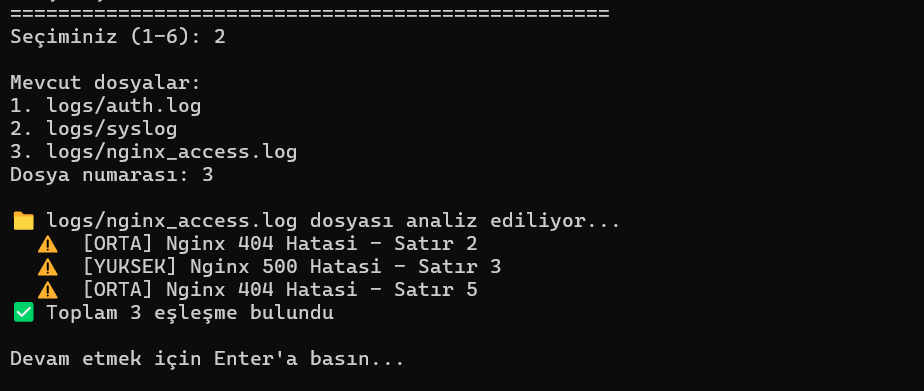
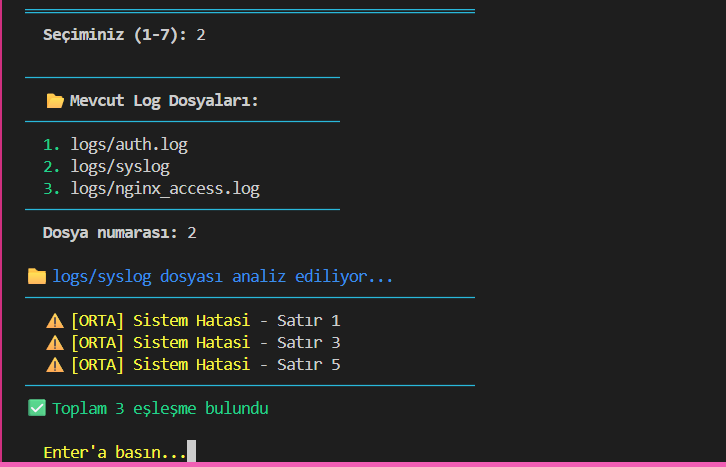
Updated app.py with colored menu system and refreshed screenshots

Changed region(s): [[0.0, 0.5217, 1.0, 1.0], [0.0, 0.1535, 0.4848, 0.5217], [0.0, 0.0, 0.6667, 0.1228]]

diff --git a/app.py b/app.py
@@ -3,6 +3,16 @@ import csv
 import yaml
 import time
 from datetime import datetime
+class Renkler:
+    KIRMIZI    = "\033[91m"
+    YESIL      = "\033[92m"
+    SARI       = "\033[93m"
+    MAVI       = "\033[94m"
+    MAGENTA    = "\033[95m"
+    SIYAN      = "\033[96m"
+    BEYAZ      = "\033[97m"
+    KALIN      = "\033[1m"
+    SIFIRLA    = "\033[0m"
 
 class LogAnalyzer:
     def __init__(self):
@@ -10,18 +20,17 @@ class LogAnalyzer:
         self.bulunan_olaylar = []
         
     def kurallari_yukle(self):
-        """YAML dosyasından kuralları yükle"""
         try:
             with open('rules.yaml', 'r', encoding='utf-8') as f:
                 veri = yaml.safe_load(f)
                 return veri['rules']
         except Exception as e:
-            print(f"Kural dosyası yüklenirken hata: {e}")
+            print(f"{Renkler.KIRMIZI}❌ Kural dosyası yüklenirken hata: {e}{Renkler.SIFIRLA}")
             return []
     
     def dosya_analiz_et(self, dosya_yolu):
-        """Belirtilen log dosyasını analiz et"""
-        print(f"\n📁 {dosya_yolu} dosyası analiz ediliyor...")
+        print(f"\n{Renkler.MAVI}📁 {dosya_yolu} dosyası analiz ediliyor...{Renkler.SIFIRLA}")
+        print(f"{Renkler.SIYAN}{'─' * 50}{Renkler.SIFIRLA}")
         
         try:
             with open(dosya_yolu, 'r', encoding='utf-8') as f:
@@ -34,8 +43,7 @@ class LogAnalyzer:
                     for kelime in kural['keywords']:
                         if kelime in satir:
                             toplam_eslesme += 1
-                    
-                            mesaj_kisa = satir.strip()[:150] + '...' if len(satir.strip()) > 150 else satir.strip()
+                            mesaj_kisa = satir.strip()[:100] + '...' if len(satir.strip()) > 100 else satir.strip()
                             
                             self.bulunan_olaylar.append({
                                 'zaman': datetime.now().strftime('%Y-%m-%d %H:%M:%S'),
@@ -45,55 +53,84 @@ class LogAnalyzer:
                                 'kural_adi': kural['name'],
                                 'mesaj': mesaj_kisa
                             })
-                            print(f"  ⚠  [{kural['severity']}] {kural['name']} - Satır {satir_no}")
+                            if kural['severity'] == 'YUKSEK':
+                                renk = Renkler.KIRMIZI
+                            elif kural['severity'] == 'ORTA':
+                                renk = Renkler.SARI
+                            else:
+                                renk = Renkler.YESIL
+                            
+                            print(f"  {renk}⚠  [{kural['severity']}] {kural['name']}{Renkler.SIFIRLA} - Satır {satir_no}")
                             break
             
-            print(f"✅ Toplam {toplam_eslesme} eşleşme bulundu\n")
+            print(f"{Renkler.SIYAN}{'─' * 50}{Renkler.SIFIRLA}")
+            print(f"{Renkler.YESIL}✅ Toplam {toplam_eslesme} eşleşme bulundu{Renkler.SIFIRLA}\n")
             
         except FileNotFoundError:
-            print(f"❌ Dosya bulunamadı: {dosya_yolu}\n")
+            print(f"{Renkler.KIRMIZI}❌ Dosya bulunamadı: {dosya_yolu}{Renkler.SIFIRLA}\n")
         except Exception as e:
-            print(f"❌ Hata oluştu: {e}\n")
+            print(f"{Renkler.KIRMIZI}❌ Hata oluştu: {e}{Renkler.SIFIRLA}\n")
     
     def gercek_zamanli_izle(self, dosya_yolu, sure=10):
-        """Log dosyasını gerçek zamanlı izle (tail -f benzeri)"""
-        print(f"\n🔴 Gerçek zamanlı izleme başlatıldı: {dosya_yolu}")
-        print(f"⏱  {sure} saniye boyunca izlenecek...\n")
+        print(f"\n{Renkler.KIRMIZI}🔴 Gerçek zamanlı izleme başlatıldı: {dosya_yolu}{Renkler.SIFIRLA}")
+        print(f"{Renkler.SARI}⏱  {sure} saniye boyunca izlenecek... (Ctrl+C ile durabilirsin){Renkler.SIFIRLA}\n")
         
         try:
             with open(dosya_yolu, 'r') as f:
-                f.seek(0, 2)  
+                f.seek(0, 2)
                 
                 baslangic = time.time()
+                beklemede = True
                 
                 while (time.time() - baslangic) < sure:
                     satir = f.readline()
                     
                     if satir:
+                        beklemede = False
                         for kural in self.kurallar:
                             for kelime in kural['keywords']:
                                 if kelime in satir:
-                                    print(f"🚨 [{kural['severity']}] {kural['name']}")
+                                    if kural['severity'] == 'YUKSEK':
+                                        renk = Renkler.KIRMIZI
+                                    elif kural['severity'] == 'ORTA':
+                                        renk = Renkler.SARI
+                                    else:
+                                        renk = Renkler.YESIL
+                                    
+                                    print(f"{renk}🚨 [{kural['severity']}] {kural['name']}{Renkler.SIFIRLA}")
                                     print(f"   {satir.strip()}\n")
+                                    
+                                    self.bulunan_olaylar.append({
+                                        'zaman': datetime.now().strftime('%Y-%m-%d %H:%M:%S'),
+                                        'dosya': os.path.basename(dosya_yolu),
+                                        'satir_no': '-',
+                                        'seviye': kural['severity'],
+                                        'kural_adi': kural['name'],
+                                        'mesaj': satir.strip()[:100]
+                                    })
                                     break
                     else:
-                        time.sleep(0.5) 
+                        if beklemede:
+                            print(f"{Renkler.SIYAN}⏳ Yeni satır bekliyor...{Renkler.SIFIRLA}", end='\r')
+                        time.sleep(0.5)
                 
-                print("✅ İzleme tamamlandı\n")
+                print(f"\n{Renkler.YESIL}✅ İzleme tamamlandı{Renkler.SIFIRLA}\n")
                 
+        except KeyboardInterrupt:
+            print(f"\n{Renkler.SARI}⚠  İzleme durdu{Renkler.SIFIRLA}\n")
         except FileNotFoundError:
-            print(f"❌ Dosya bulunamadı: {dosya_yolu}\n")
+            print(f"{Renkler.KIRMIZI}❌ Dosya bulunamadı: {dosya_yolu}{Renkler.SIFIRLA}\n")
         except Exception as e:
-            print(f"❌ Hata: {e}\n")
+            print(f"{Renkler.KIRMIZI}❌ Hata: {e}{Renkler.SIFIRLA}\n")
     
     def rapor_olustur(self):
-        """CSV raporu oluştur"""
         if not self.bulunan_olaylar:
-            print("⚠  Rapor için hiç olay bulunamadı!\n")
+            print(f"\n{Renkler.SARI}⚠  Rapor için hiç olay bulunamadı! Önce analiz yapın.{Renkler.SIFIRLA}\n")
             return
         
         os.makedirs('output', exist_ok=True)
-        rapor_yolu = 'output/report.csv'
+        zaman_damgasi = datetime.now().strftime('%Y%m%d_%H%M%S')
+        rapor_yolu = f'output/report_{zaman_damgasi}.csv'
         
         try:
             with open(rapor_yolu, 'w', newline='', encoding='utf-8-sig') as f:
@@ -103,31 +140,58 @@ class LogAnalyzer:
                 yazar.writeheader()
                 yazar.writerows(self.bulunan_olaylar)
             
-            print(f"✅ Rapor oluşturuldu: {rapor_yolu}")
-            print(f"📊 Toplam {len(self.bulunan_olaylar)} olay kaydedildi\n")
+            print(f"\n{Renkler.YESIL}✅ Rapor oluşturuldu: {rapor_yolu}{Renkler.SIFIRLA}")
+            print(f"{Renkler.SIYAN}📊 Toplam {len(self.bulunan_olaylar)} olay kaydedildi{Renkler.SIFIRLA}\n")
             
         except Exception as e:
-            print(f"❌ Rapor oluşturulurken hata: {e}\n")
+            print(f"\n{Renkler.KIRMIZI}❌ Rapor oluşturulurken hata: {e}{Renkler.SIFIRLA}\n")
+    
+    def ozet_goster(self):
+        if not self.bulunan_olaylar:
+            print(f"\n{Renkler.SARI}⚠  Henüz analiz yapılmadı!{Renkler.SIFIRLA}\n")
+            return
+        
+        yuksek = sum(1 for o in self.bulunan_olaylar if o['seviye'] == 'YUKSEK')
+        orta   = sum(1 for o in self.bulunan_olaylar if o['seviye'] == 'ORTA')
+        dusuk  = sum(1 for o in self.bulunan_olaylar if o['seviye'] == 'DUSUK')
+        
+        print(f"\n{Renkler.KALIN}{Renkler.SIYAN}{'═' * 40}{Renkler.SIFIRLA}")
+        print(f"{Renkler.KALIN}{Renkler.SIYAN}      📊 ANALİZ ÖZETİ{Renkler.SIFIRLA}")
+        print(f"{Renkler.KALIN}{Renkler.SIYAN}{'═' * 40}{Renkler.SIFIRLA}")
+        print(f"  {Renkler.KIRMIZI}🔴 YUKSEK  :  {yuksek} olay{Renkler.SIFIRLA}")
+        print(f"  {Renkler.SARI}🟡 ORTA    :  {orta} olay{Renkler.SIFIRLA}")
+        print(f"  {Renkler.YESIL}🟢 DUSUK   :  {dusuk} olay{Renkler.SIFIRLA}")
+        print(f"  {Renkler.SIYAN}{'─' * 36}{Renkler.SIFIRLA}")
+        print(f"  {Renkler.BEYAZ}📌 TOPLAM  :  {len(self.bulunan_olaylar)} olay{Renkler.SIFIRLA}")
+        print(f"{Renkler.KALIN}{Renkler.SIYAN}{'═' * 40}{Renkler.SIFIRLA}\n")
     
     def temizle(self):
         """Bulunan olayları temizle"""
         self.bulunan_olaylar = []
-        print("🗑  Kayıtlar temizlendi\n")
+        print(f"\n{Renkler.YESIL}🗑  Kayıtlar temizlendi{Renkler.SIFIRLA}\n")
 
-
-def menu_goster():
+def ana_menu_goster():
     """Ana menüyü göster"""
-    print("=" * 50)
-    print("     🔍 CLI LOG ANALİZ VE UYARI ARACI 🔍")
-    print("=" * 50)
-    print("1. Tüm Log Dosyalarını Analiz Et")
-    print("2. Belirli Bir Dosyayı Analiz Et")
-    print("3. Gerçek Zamanlı İzleme Başlat")
-    print("4. CSV Raporu Oluştur")
-    print("5. Kayıtları Temizle")
-    print("6. Çıkış")
-    print("=" * 50)
+    print(f"\n{Renkler.KALIN}{Renkler.SIYAN}{'═' * 50}{Renkler.SIFIRLA}")
+    print(f"{Renkler.KALIN}{Renkler.MAGENTA}     🔍 CLI LOG ANALİZ VE UYARI ARACI 🔍{Renkler.SIFIRLA}")
+    print(f"{Renkler.KALIN}{Renkler.SIYAN}{'═' * 50}{Renkler.SIFIRLA}")
+    print(f"  {Renkler.YESIL}1.{Renkler.SIFIRLA}  Tüm Log Dosyalarını Analiz Et")
+    print(f"  {Renkler.YESIL}2.{Renkler.SIFIRLA}  Belirli Bir Dosyayı Analiz Et")
+    print(f"  {Renkler.YESIL}3.{Renkler.SIFIRLA}  Gerçek Zamanlı İzleme Başlat")
+    print(f"  {Renkler.YESIL}4.{Renkler.SIFIRLA}  CSV Raporu Oluştur")
+    print(f"  {Renkler.YESIL}5.{Renkler.SIFIRLA}  Analiz Özeti Göster")
+    print(f"  {Renkler.YESIL}6.{Renkler.SIFIRLA}  Kayıtları Temizle")
+    print(f"  {Renkler.KIRMIZI}7.{Renkler.SIFIRLA}  Çıkış")
+    print(f"{Renkler.KALIN}{Renkler.SIYAN}{'═' * 50}{Renkler.SIFIRLA}")
 
+
+def dosya_mensu_goster(log_dosyalari):
+    print(f"\n{Renkler.SIYAN}{'─' * 35}{Renkler.SIFIRLA}")
+    print(f"{Renkler.KALIN}  📂 Mevcut Log Dosyaları:{Renkler.SIFIRLA}")
+    print(f"{Renkler.SIYAN}{'─' * 35}{Renkler.SIFIRLA}")
+    for i, dosya in enumerate(log_dosyalari, 1):
+        print(f"  {Renkler.YESIL}{i}.{Renkler.SIFIRLA} {dosya}")
+    print(f"{Renkler.SIYAN}{'─' * 35}{Renkler.SIFIRLA}")
 
 def main():
     """Ana program"""
@@ -138,40 +202,38 @@ def main():
         'logs/syslog',
         'logs/nginx_access.log'
     ]
+  
+    print(f"\n{Renkler.KALIN}{Renkler.YESIL}  ✓ Sistem hazır!{Renkler.SIFIRLA}")
+    print(f"{Renkler.SIYAN}  ✓ {len(analizci.kurallar)} kural yüklendu{Renkler.SIFIRLA}")
+    print(f"{Renkler.SIYAN}  ✓ {len(log_dosyalari)} log dosyası tespit edildi{Renkler.SIFIRLA}")
     
     while True:
-        menu_goster()
-        secim = input("Seçiminiz (1-6): ").strip()
+        ana_menu_goster()
+        secim = input(f"{Renkler.KALIN}  Seçiminiz (1-7): {Renkler.SIFIRLA}").strip()
         
         if secim == '1':
             for dosya in log_dosyalari:
                 analizci.dosya_analiz_et(dosya)
-            input("Devam etmek için Enter'a basın...")
+            analizci.ozet_goster()
+            input(f"{Renkler.SARI}  Enter'a basın...{Renkler.SIFIRLA}")
             
         elif secim == '2':
-            print("\nMevcut dosyalar:")
-            for i, dosya in enumerate(log_dosyalari, 1):
-                print(f"{i}. {dosya}")
-            
-            dosya_secim = input("Dosya numarası: ").strip()
+            dosya_mensu_goster(log_dosyalari)
+            dosya_secim = input(f"{Renkler.KALIN}  Dosya numarası: {Renkler.SIFIRLA}").strip()
             try:
                 index = int(dosya_secim) - 1
                 if 0 <= index < len(log_dosyalari):
                     analizci.dosya_analiz_et(log_dosyalari[index])
                 else:
-                    print("❌ Geçersiz numara!\n")
+                    print(f"{Renkler.KIRMIZI}  ❌ Geçersiz numara!{Renkler.SIFIRLA}\n")
             except ValueError:
-                print("❌ Lütfen sayı girin!\n")
-            
-            input("Devam etmek için Enter'a basın...")
+                print(f"{Renkler.KIRMIZI}  ❌ Lütfen sayı girin!{Renkler.SIFIRLA}\n")
+            input(f"{Renkler.SARI}  Enter'a basın...{Renkler.SIFIRLA}")
             
         elif secim == '3':
-            print("\nMevcut dosyalar:")
-            for i, dosya in enumerate(log_dosyalari, 1):
-                print(f"{i}. {dosya}")
-            
-            dosya_secim = input("Dosya numarası: ").strip()
-            sure = input("Kaç saniye izlensin?: ").strip()
+            dosya_mensu_goster(log_dosyalari)
+            dosya_secim = input(f"{Renkler.KALIN}  Dosya numarası: {Renkler.SIFIRLA}").strip()
+            sure = input(f"{Renkler.KALIN}  Kaç saniye izlensin? (varsayılan 10): {Renkler.SIFIRLA}").strip()
             
             try:
                 index = int(dosya_secim) - 1
@@ -180,27 +242,30 @@ def main():
                 if 0 <= index < len(log_dosyalari):
                     analizci.gercek_zamanli_izle(log_dosyalari[index], sure_int)
                 else:
-                    print("❌ Geçersiz numara!\n")
+                    print(f"{Renkler.KIRMIZI}  ❌ Geçersiz numara!{Renkler.SIFIRLA}\n")
             except ValueError:
-                print("❌ Lütfen geçerli değerler girin!\n")
-            
-            input("Devam etmek için Enter'a basın...")
+                print(f"{Renkler.KIRMIZI}  ❌ Lütfen geçerli değerler girin!{Renkler.SIFIRSA}\n")
+            input(f"{Renkler.SARI}  Enter'a basın...{Renkler.SIFIRLA}")
             
         elif secim == '4':
             analizci.rapor_olustur()
-            input("Devam etmek için Enter'a basın...")
+            input(f"{Renkler.SARI}  Enter'a basın...{Renkler.SIFIRLA}")
             
         elif secim == '5':
-            analizci.temizle()
-            input("Devam etmek için Enter'a basın...")
+            analizci.ozet_goster()
+            input(f"{Renkler.SARI}  Enter'a basın...{Renkler.SIFIRLA}")
             
         elif secim == '6':
-            print("\n👋 Görüşmek üzere!\n")
+            analizci.temizle()
+            input(f"{Renkler.SARI}  Enter'a basın...{Renkler.SIFIRLA}")
+            
+        elif secim == '7':
+            print(f"\n{Renkler.YESIL}{Renkler.KALIN}  👋 Görüşmek üzere!{Renkler.SIFIRLA}\n")
             break
             
         else:
-            print("\n❌ Geçersiz seçim! Lütfen 1-6 arası seçin.\n")
-            input("Devam etmek için Enter'a basın...")
+            print(f"\n{Renkler.KIRMIZI}  ❌ Geçersiz seçim! 1-7 arası seçin.{Renkler.SIFIRLA}\n")
+            input(f"{Renkler.SARI}  Enter'a basın...{Renkler.SIFIRLA}")
 
 
 if __name__ == "__main__":
